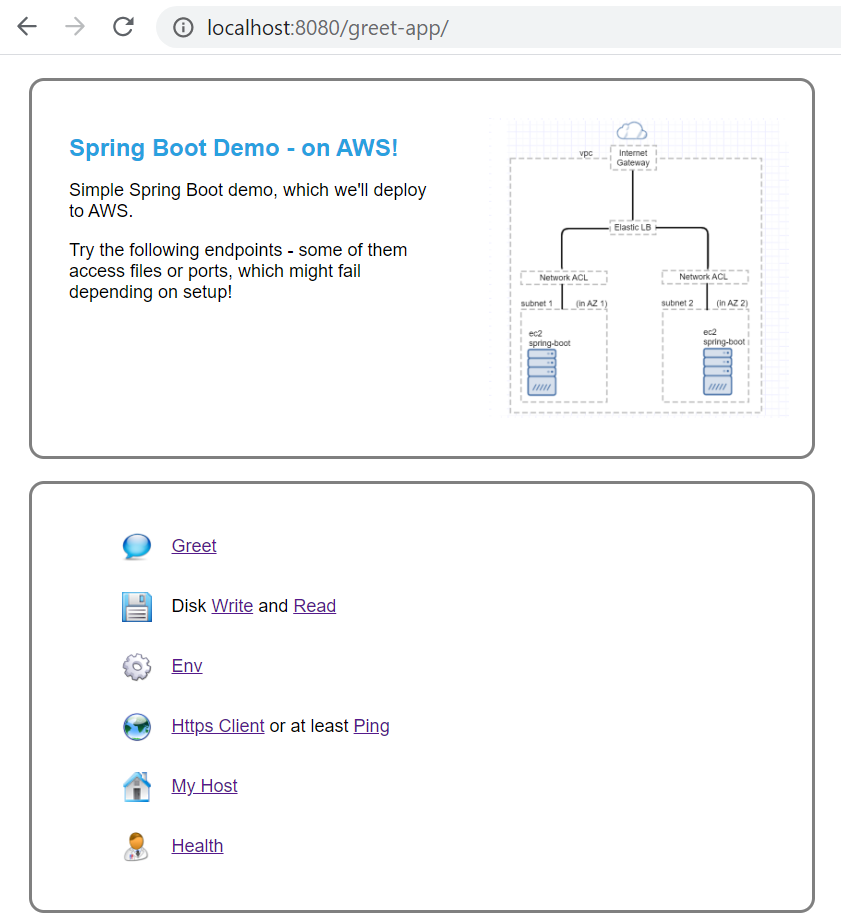
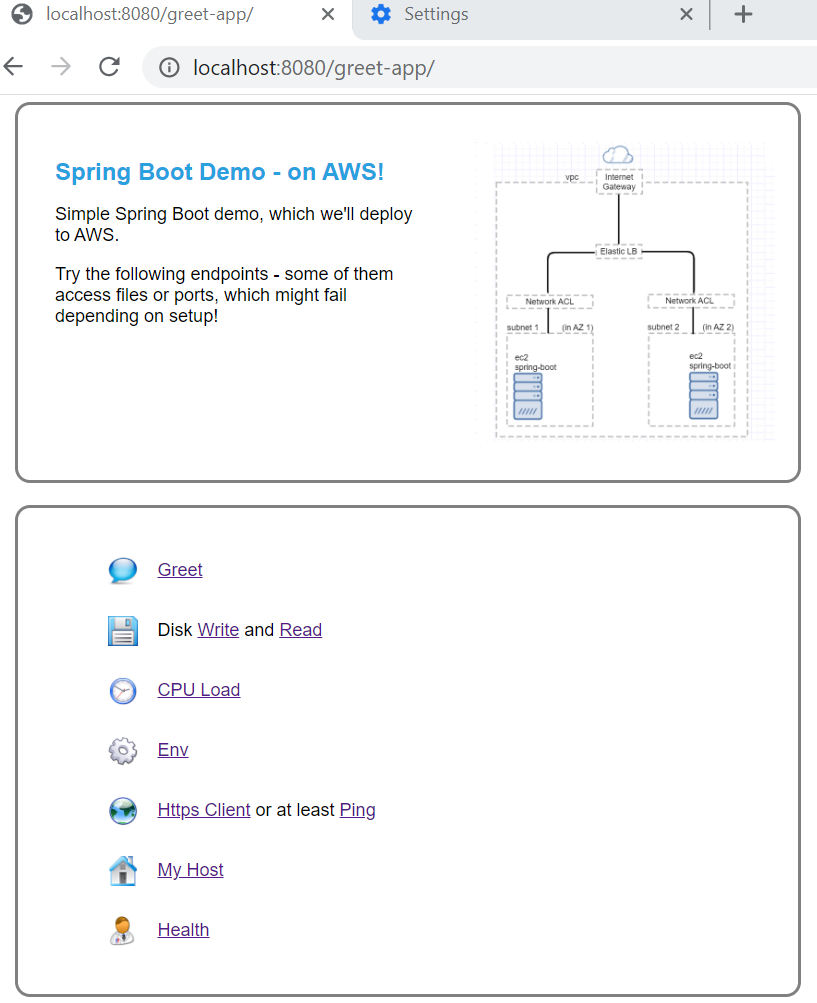
added load test

diff --git a/src/main/resources/static/index.html b/src/main/resources/static/index.html
@@ -28,6 +28,9 @@
 				and
 				<a href="resource/disk-read?file=file1.txt">Read</a>
 			</li>
+			<li class="cpu">
+				<a href="resource/cpu-load?loadTime=20000&threads=100">CPU Load</a>
+			</li>
 			<li class="env">
 				<a href="resource/env?name=Path">Env</a>
 			</li>
@@ -42,6 +45,7 @@
 			<li class="health">
 				<a href="actuator/health">Health</a>
 			</li>
+
 		</ul>
 	</div>
 </body>

diff --git a/src/main/resources/static/greet.css b/src/main/resources/static/greet.css
@@ -65,6 +65,9 @@ ul.images-list {
 .images-list li.home::before {   
     background-image: url('/greet-app/img/home.ico');   
 }
+.images-list li.cpu::before {   
+    background-image: url('/greet-app/img/cpu.ico');   
+}
 .images-list li.env::before {   
     background-image: url('/greet-app/img/novula/env.png');   
 }

diff --git a/src/main/java/pelit/hi/controllers/ResourceTestController.java b/src/main/java/pelit/hi/controllers/ResourceTestController.java
@@ -1,23 +1,31 @@
 package pelit.hi.controllers;
 
 import static java.lang.String.format;
+import static java.lang.System.currentTimeMillis;
+import static java.util.concurrent.Executors.newFixedThreadPool;
+import static java.util.stream.Collectors.toList;
+import static org.springframework.http.MediaType.APPLICATION_JSON_VALUE;
 import static pelit.hi.GreetUtil.redirectingRestTemplate;
 
 import java.net.InetAddress;
 import java.nio.file.Files;
 import java.nio.file.Path;
 import java.nio.file.Paths;
+import java.util.List;
+import java.util.concurrent.Callable;
+import java.util.concurrent.ExecutorService;
+import java.util.concurrent.Future;
+import java.util.stream.Stream;
 
+import org.apache.logging.log4j.Logger;
 import org.springframework.beans.factory.annotation.Autowired;
 import org.springframework.core.env.Environment;
-import org.springframework.http.MediaType;
 import org.springframework.web.bind.annotation.GetMapping;
 import org.springframework.web.bind.annotation.RequestMapping;
 import org.springframework.web.bind.annotation.RequestParam;
 import org.springframework.web.bind.annotation.RestController;
 
 import pelit.hi.logic.GenericMsg;
-
 /**
  * Have a bit of fun, seeing whether your application can 
  * access various resources on the production environment.
@@ -28,12 +36,15 @@ import pelit.hi.logic.GenericMsg;
  *
  */
 @RestController
-@RequestMapping(value="/resource", produces = MediaType.APPLICATION_JSON_VALUE )
+@RequestMapping(value="/resource", produces = APPLICATION_JSON_VALUE )
 
 public class ResourceTestController {
 	
 	@Autowired
 	private Environment env;
+	
+	@Autowired
+	private Logger logger;
 	
 	@GetMapping("/disk-write")
 	public GenericMsg diskWrite(@RequestParam String file, @RequestParam String text) 
@@ -44,7 +55,9 @@ public class ResourceTestController {
 				.message("File write success!")
 				.details(path.toAbsolutePath())
 				.build();
+		// Note: in real-life projects, make that 'POST' rather than 'GET', because it creates data
 	}
+	
 	@GetMapping("/disk-read")
 	public GenericMsg diskRead(@RequestParam String file) throws Exception{
 		Path path=Paths.get(file);
@@ -89,9 +102,51 @@ public class ResourceTestController {
 				.message("My host:"+thisHost())
 				.build();
 	}
-	
+
+	@GetMapping("/cpu-load")
+	public GenericMsg cpuLoad(@RequestParam long loadTime, @RequestParam int threads)
+	throws Exception{
+		loadCpu(loadTime, threads);
+		return GenericMsg.builder()
+				.message(format("Loaded cpu for time:%s threads:%s", loadTime, threads))
+				.build();
+	}
+
 	private String thisHost() throws Exception {
 		return InetAddress.getLocalHost().toString();
 	}
 	
+	private void loadCpu(long loadTime, int threads) throws Exception{
+		ExecutorService exec=newFixedThreadPool(threads);
+		List<Callable<Integer>> callables=Stream.iterate(0, i->i+1)
+			.limit(threads)
+			.map(i->new Callable<Integer>() {
+				public Integer call() {
+					loadCpu1(loadTime);
+					return 1;
+				}
+			})
+			.collect(toList());
+		List<Future<Integer>> futures=exec.invokeAll(callables);
+		joinAll(futures);
+		exec.shutdownNow();
+	}
+
+	private  void loadCpu1(long loadTime) {
+		logger.debug("Loading cpu in thread {}", Thread.currentThread());
+		long start=currentTimeMillis();
+		while(currentTimeMillis()-start<loadTime) {
+			Math.random();
+		}
+	}
+	private <T> void joinAll(List<Future<T>> futures){
+		for(Future<T> future:futures) {
+			try {
+				future.get();
+			}
+			catch(Exception ex) {
+				logger.error(ex);
+			}
+		}
+	}
 }

diff --git a/src/main/java/pelit/hi/logic/GreetingCard.java b/src/main/java/pelit/hi/logic/GreetingCard.java
@@ -9,9 +9,5 @@ import lombok.ToString;
 public class GreetingCard {
 	private String name;
 	private String remarks;
-	private int luckyNumber = random();
-	
-	private static int random() {
-		return (int)(1000*Math.random());
-	}
+	private int luckyNumber;
 }

diff --git a/src/main/java/pelit/hi/logic/GreetService.java b/src/main/java/pelit/hi/logic/GreetService.java
@@ -13,6 +13,7 @@ public class GreetService {
 		return GreetingCard.builder()
 				.name(name)
 				.remarks("Remark:"+message)
+				.luckyNumber((int)(1000*Math.random()))
 				.build();
 	}
 }

diff --git a/Readme.md b/Readme.md
@@ -75,21 +75,22 @@ using the simplest single-instance configuration.
 <br/>
 
 This will require:
-1. An **ec2 instance**, representing the virtual server where our Spring Boot app will run. It will be provided with most items you'd expect on a computer: CPU, disk space, network, operating system etc. It's listed first, but we'll actually set it up last - after our network is ready.
-1. A **vpc** (virtual private cloud): representing a virtual network that will be provided for us, spanning a range of IP addresses. It can contain several subnets in several availability zones.
-1. A **subnet**: representing the internal network where our ec2 instance would run. A subnet uses a sub-range of IP addresses from the vpc. Each subnet resides in one physical location (availability zone) - so is not incredibly protected against natural disasters.
+1. An **ec2 instance**, representing the virtual server where our Spring Boot app will run. It will be provided with most items you'd expect on a computer: CPU, disk space (ESB), network, operating system etc. We'll set it up last - after our network is ready.
+1. A **vpc** (virtual private cloud): representing a virtual network that will be provided for us, spanning a range of IP addresses. It can contain several subnets in several availability zones (though it will be confined to one region)
+1. A **subnet**: representing the internal network where our ec2 instance would run. A subnet uses a sub-range of IP addresses from the vpc. Each subnet resides in one physical location (availability zone) - so an architecture based on a single subnet is not the best protection against natural disasters.
 1. An **internet gateway**: geteway to the outside world - the internet. Once we connect this gateway to our subnet (with some routing & security configurations), our Spring Boot app will be able to serve browsers all over the world! 
 1. **Routing & security rules** - in AWS entities such as: **Route Table, Network ACL, Security Group**.
-
-** Let's get started:**
-Log into the AWS console. For this demo we'll use the root user (the one we used for opening the account), though it's not very secure.
-Locate the following two menu items: **region** and **services**. Chose a region and stick with it - if it accidentally changes, things might misbehave. **Services** is our link for various services, such as vpc, ec2 and much more.
-
-<img raw="true" src=""docs/doc-img/diagram-simple.png"" width=100"/> 
+<br/>
+Effects on our app:<br/><br/>
+<img raw="true" src="src/main/resources/static/img/greet.png" width="20"/>&nbsp;**Greet:** Our Spring Boot app will only respond if the subnet is properly configured for external http communication! Feel free to see how it stops responding if you misconfigure the gateway, route table, NACL or security group. <br/><br/>
+<img raw="true" src="src/main/resources/static/img/disk.ico" width="20"/>&nbsp;**Disk I/O:** Our ec2 is provided with storage, so this should work (unless you generate lots of huge files). But how long will your file be available? This depends on the storage attachment policy - if the storage is "attached" to the ec2, and the ec2 is terminated, you'd lose your data. That's a big 'Gotcha' that is better discovered in this test, and not in production...<br/><br/>
+<img raw="true" src="src/main/resources/static/img/env.ico" width="20"/>&nbsp;**Environment variables:** Feel free to set them up, and watch the effect. <br/><br/>
+<img raw="true" src="src/main/resources/static/img/cpu.ico" width="20"/>&nbsp;**No Scaling Yet:** If we overload the CPU, well, tough luck - all other requests will slow down. This can be solved by horizontal scaling - namely more ec2 instances. Better still, if we ask AWS to automatically add/remove ec2's depending on the load - that's elasticity! <br/><br/>
 
 ## Under construction
 Coming up soon
-*	Setting up vcp, subnet, ec2 etc (single instance) with CloudFormation
-*	Auto scaling. For this, we'll add a SpringBoot controller that intentionally overloads 
-	the cpu, and watch it cause rescaling
-*	 
+*	Setting it up, with both the AWS console (video) and with CloudFormation 
+*	Auto scaling. We'll set up auto scaling, overload the cpu, and see if new instances will be automatically launched
+*	Load balancer (ALB)
+*	(Just please remember to stop instances and other resources!!)
+
